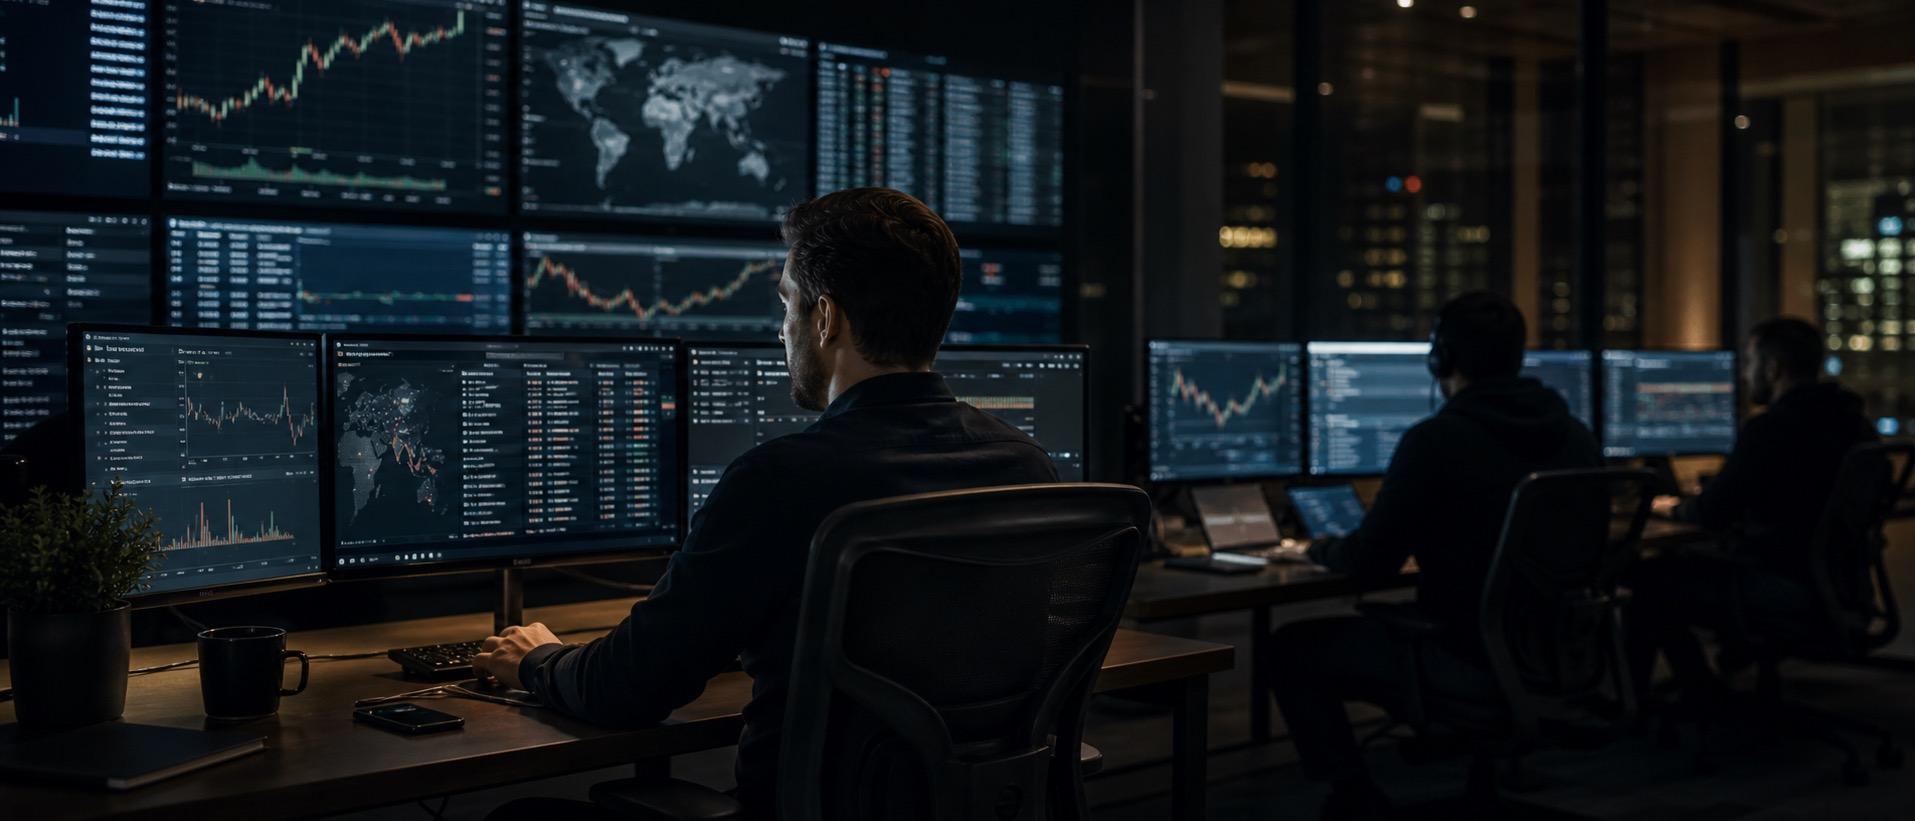
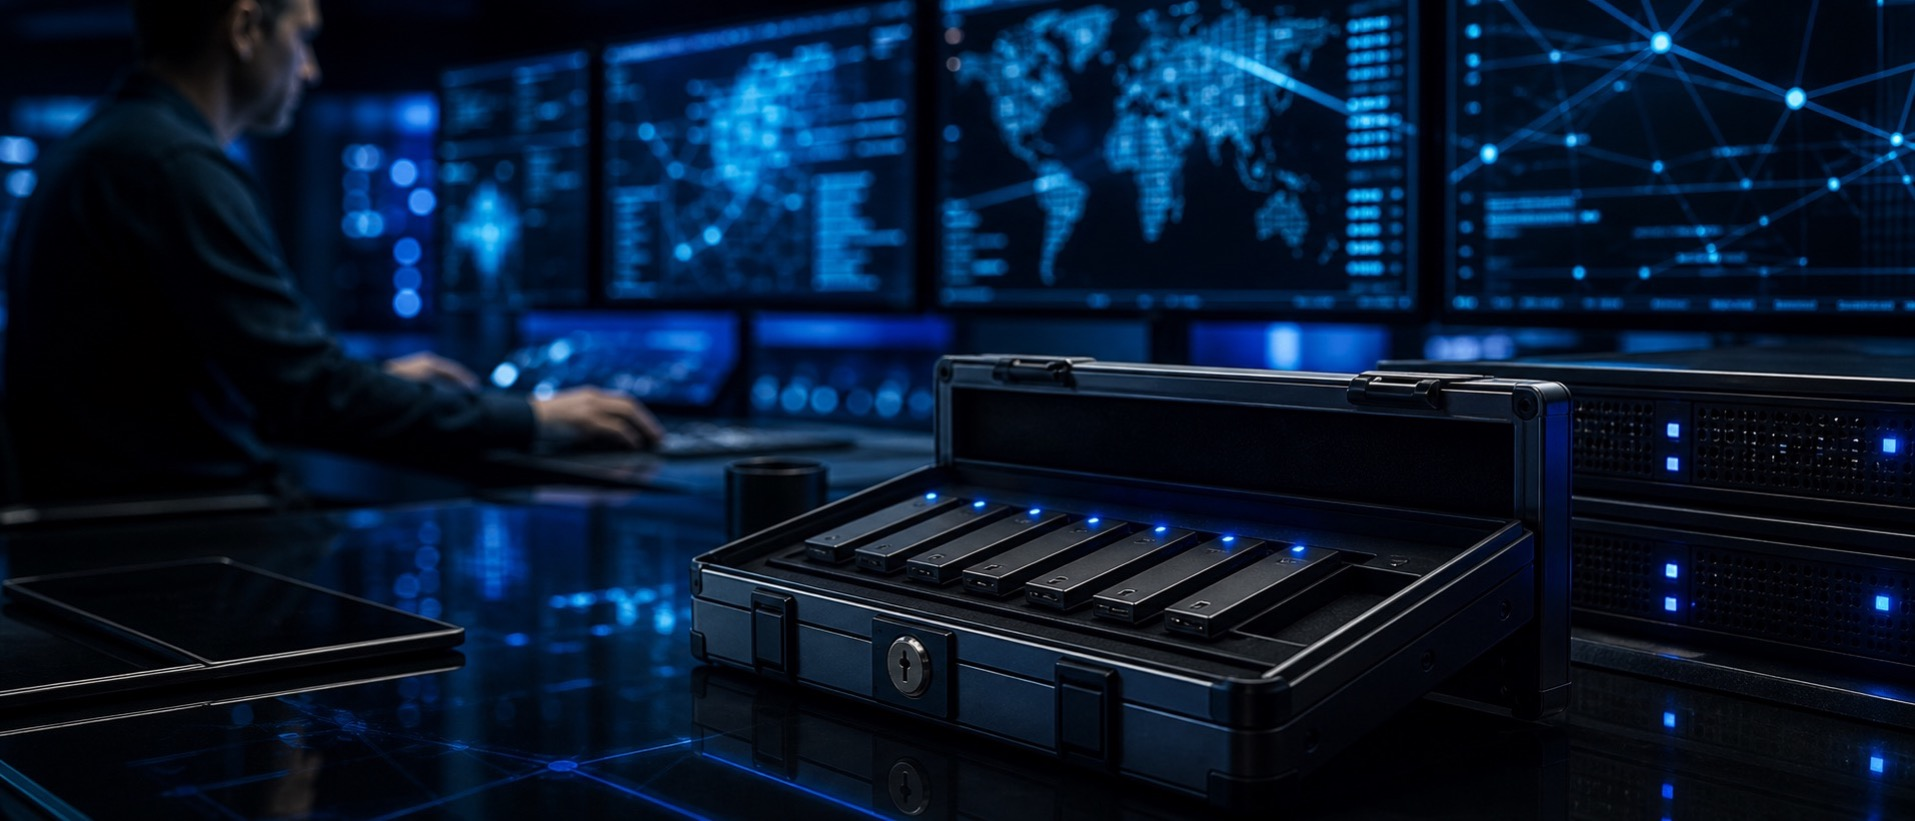
Codex updates: content, styles, assets

diff --git a/styles.css b/styles.css
@@ -139,3 +139,70 @@ a { color: inherit; text-decoration: none; }
 .faq__item { padding: 1.5rem 0; border-bottom: 1px solid var(--rule); }
 .faq__q { font-family: var(--ff-serif); font-size: 1.05rem; font-weight: 700; color: var(--white); margin-bottom: .5rem; }
 .faq__a { font-size: .9rem; line-height: 1.75; color: var(--ash); }
+
+/* --- Mobile overflow hardening --- */
+html,
+body {
+  max-width: 100%;
+  overflow-x: clip;
+}
+
+body {
+  overscroll-behavior-x: none;
+}
+
+img,
+svg,
+video,
+canvas {
+  max-width: 100%;
+  height: auto;
+}
+
+main,
+section,
+header,
+footer,
+nav,
+form,
+fieldset,
+[class*="__inner"],
+[class*="__grid"],
+[class*="__row"],
+[class*="__cols"],
+[class*="__card"],
+[class*="__item"] {
+  min-width: 0;
+}
+
+input,
+textarea,
+select,
+button {
+  max-width: 100%;
+  min-width: 0;
+}
+
+p,
+h1,
+h2,
+h3,
+h4,
+h5,
+h6,
+a,
+li,
+span {
+  overflow-wrap: anywhere;
+}
+
+@media (max-width: 480px) {
+  .btn,
+  .btn-primary,
+  .btn-ghost,
+  [class*="btn"],
+  [class*="button"] {
+    max-width: 100%;
+    white-space: normal;
+  }
+}

diff --git a/index.html b/index.html
@@ -48,7 +48,7 @@
       <div class="hero__right">
         <p class="hero__sub"><strong>ENCRYPTEDHOLDINGS.COM</strong> is available for purchase. One possible direction: an institutional-grade digital asset custody and cold storage platform providing multi-signature vault architecture, hardware security module integration, and insurance-backed custody for cryptocurrency funds, family offices, and corporate treasuries holding digital assets.</p>
         <div class="hero__cta">
-          <a class="btn-primary btn-primary--lg" href="mailto:[email redacted]?subject=Offer%20on%20ENCRYPTEDHOLDINGS.COM">Make an offer <span aria-hidden="true">→</span></a>
+          <a class="btn-primary btn-primary--lg" href="#acquire">Make an offer <span aria-hidden="true">→</span></a>
           <a class="btn-outline" href="#focus">Platform overview</a>
         </div>
       </div>
@@ -91,15 +91,14 @@
     <p class="acquire__eyebrow"><span class="acquire__eyebrow-dot" aria-hidden="true"></span>The asset is the address</p>
     <h2 class="acquire__title">Purchase <em>ENCRYPTEDHOLDINGS.COM</em>.</h2>
     <p class="acquire__lede">Send a note. Offers, partnerships, and serious enquiries are read by the owner directly. Brokers welcome. Confidentiality assumed.</p>
-    <form class="acquire-form" action="mailto:[email redacted]" method="post" enctype="text/plain">
+    <form class="acquire-form" action="#" method="post" enctype="text/plain">
       <div class="acquire-form__row">
         <label class="field"><span class="field__label">Name</span><input type="text" name="name" required autocomplete="name" /></label>
-        <label class="field"><span class="field__label">Email</span><input type="email" name="email" required autocomplete="email" placeholder="[email redacted]" /></label>
+        <label class="field"><span class="field__label">Reply contact</span><input type="email" name="email" required autocomplete="email" placeholder="Where should we reply?" /></label>
       </div>
       <label class="field"><span class="field__label">Offer or message</span><textarea name="message" rows="3" placeholder="A few lines is plenty."></textarea></label>
       <div class="acquire-form__actions">
         <button class="btn-primary btn-primary--lg" type="submit">Send enquiry <span aria-hidden="true">→</span></button>
-        <p class="acquire-form__alt">Or write to <a href="mailto:[email redacted]">[email redacted]</a></p>
       </div>
     </form>
   </div>
@@ -110,11 +109,11 @@
     <div class="faq__list">
       <div class="faq__item">
         <h3 class="faq__q">Is encryptedholdings.com available for purchase?</h3>
-        <p class="faq__a">encryptedholdings.com is currently available for purchase. Send an enquiry directly to [email redacted]. Brokers are welcome and confidentiality is assumed on all enquiries.</p>
+        <p class="faq__a">encryptedholdings.com is currently available for purchase. Use the contact form to send an enquiry. Brokers are welcome and confidentiality is assumed on all enquiries.</p>
       </div>
       <div class="faq__item">
         <h3 class="faq__q">How do I make an offer on encryptedholdings.com?</h3>
-        <p class="faq__a">Use the contact form above or email [email redacted] directly with your offer or message. The owner reads all enquiries personally and responds to serious offers promptly.</p>
+        <p class="faq__a">Use the contact form on this page with your offer or message. The owner reads all enquiries personally and responds to serious offers promptly.</p>
       </div>
       <div class="faq__item">
         <h3 class="faq__q">Who is selling encryptedholdings.com?</h3>